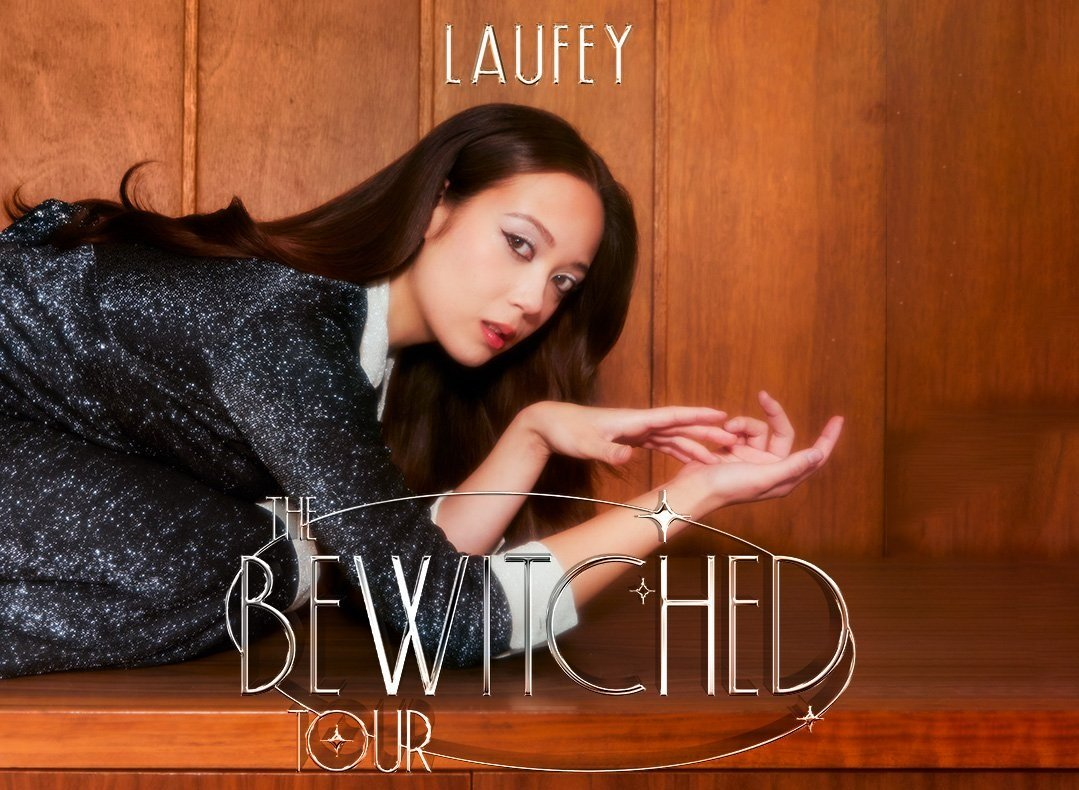
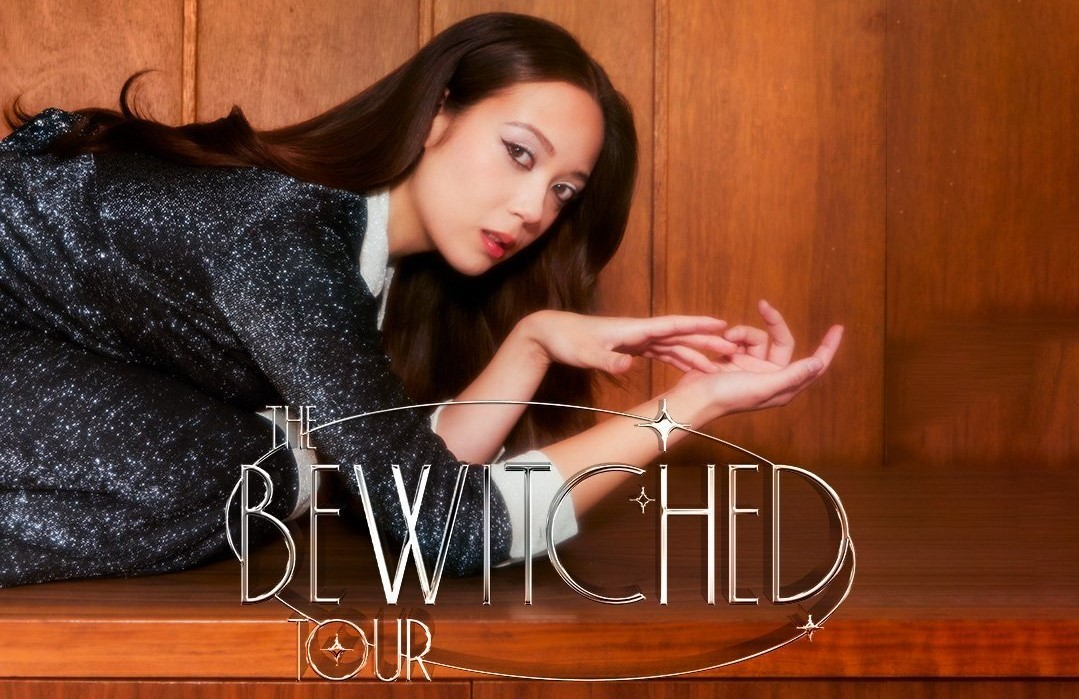
almost completed tour page,have to fix the spacing

diff --git a/html/tour.html b/html/tour.html
@@ -7,7 +7,7 @@
     <script src="../js/main.js"></script>
     <link rel="preconnect" href="https://fonts.googleapis.com">
     <link rel="preconnect" href="https://fonts.gstatic.com" crossorigin>
-    <link href="https://fonts.googleapis.com/css2?family=Kristi&family=Radio+Canada:wght@700&family=Roboto+Mono:wght@300;500&display=swap" rel="stylesheet">
+    <link href="https://fonts.googleapis.com/css2?family=Caveat&family=Kristi&family=Radio+Canada:wght@300;400;500;600;700&family=Roboto+Mono:wght@100;200;300;400;500;600;700&display=swap" rel="stylesheet">
     <title>About | Laufey</title>
 </head>
 <body>
@@ -40,7 +40,151 @@
     </header>
 
     <main>
+        <section id = "tour-picture-container">
+            <img src="../images/tour/laufey_tour_poster.jpg" alt="Tour Poster">
+        </section>
+        <section id = "tour-dates-container">
+            <div class = "tour-items">
+                <div class = "tour-date-details">
+                    <p class = "tour-date">
+                        NOV 15, 2024<br><span>Friday</span>
+                    </p>
+                    <p class = "tour-country">
+                        SINGAPORE, <br>SINGAPORE
+                    </p>
+                    <p class = "tour-location">
+                        SINGAPORE INDOOR STADIUM<br><span>with Dodie</span>
+                    </p>
+                    <a class = "buy-tickets-button" href = "#" target="_blank">
+                        BUY TICKETS
+                    </a>
+                </div>
+                <div class = "tour-date-details">
+                    <p class = "tour-date">
+                        NOV 17, 2024<br><span>Sunday</span>
+                    </p>
+                    <p class = "tour-country">
+                        KUALAR LUMPUR, <br>MALAYSIA
+                    </p>
+                    <p class = "tour-location">
+                        BUKIT JALIL NATIONAL STADIUM<br><span>with Dodie</span>
+                    </p>
+                    <a class = "buy-tickets-button" href = "#" target="_blank">
+                        BUY TICKETS
+                    </a>
+                </div>
+                <div class = "tour-date-details">
+                    <p class = "tour-date">
+                        NOV 20, 2024<br><span>Thursday</span>
+                    </p>
+                    <p class = "tour-country">
+                        BANGKOK, <br>THAILAND
+                    </p>
+                    <p class = "tour-location">
+                        TRUE ICON HALL<br><span>with Dodie</span>
+                    </p>
+                    <a class = "buy-tickets-button" href = "#" target="_blank">
+                        BUY TICKETS
+                    </a>
+                </div>
+                <div class = "tour-date-details">
+                    <p class = "tour-date">
+                        NOV 23, 2024<br><span>Sunday</span>
+                    </p>
+                    <p class = "tour-country">
+                        HANOI, <br>VIETNAM
+                    </p>
+                    <p class = "tour-location">
+                        HANOI OPERA HOUSE<br><span>with VNSO</span>
+                    </p>
+                    <a class = "buy-tickets-button" href = "#" target="_blank">
+                        BUY TICKETS
+                    </a>
+                </div>
+                <div class = "tour-date-details">
+                    <p class = "tour-date">
+                        NOV 15, 2024<br><span>Friday</span>
+                    </p>
+                    <p class = "tour-country">
+                        SINGAPORE, <br>SINGAPORE
+                    </p>
+                    <p class = "tour-location">
+                        SINGAPORE INDOOR STADIUM<br><span>with Dodie</span>
+                    </p>
+                    <a class = "buy-tickets-button" href = "#" target="_blank">
+                        BUY TICKETS
+                    </a>
+                </div>
+                <div class = "tour-date-details">
+                    <p class = "tour-date">
+                        NOV 17, 2024<br><span>Sunday</span>
+                    </p>
+                    <p class = "tour-country">
+                        KUALAR LUMPUR, <br>MALAYSIA
+                    </p>
+                    <p class = "tour-location">
+                        BUKIT JALIL NATIONAL STADIUM<br><span>with Dodie</span>
+                    </p>
+                    <a class = "buy-tickets-button" href = "#" target="_blank">
+                        BUY TICKETS
+                    </a>
+                </div>
+                <div class = "tour-date-details">
+                    <p class = "tour-date">
+                        NOV 20, 2024<br><span>Thursday</span>
+                    </p>
+                    <p class = "tour-country">
+                        BANGKOK, <br>THAILAND
+                    </p>
+                    <p class = "tour-location">
+                        TRUE ICON HALL<br><span>with Dodie</span>
+                    </p>
+                    <a class = "buy-tickets-button" href = "#" target="_blank">
+                        BUY TICKETS
+                    </a>
+                </div>
+                <div class = "tour-date-details">
+                    <p class = "tour-date">
+                        NOV 23, 2024<br><span>Sunday</span>
+                    </p>
+                    <p class = "tour-country">
+                        HANOI, <br>VIETNAM
+                    </p>
+                    <p class = "tour-location">
+                        HANOI OPERA HOUSE<br><span>with VNSO</span>
+                    </p>
+                    <a class = "buy-tickets-button" href = "#" target="_blank">
+                        BUY TICKETS
+                    </a>
+                </div>
+            </div>
+        </section>
         
+        <section id = "tour-merch">
+            <div class = "featured-merch-container">
+                <div class = "merch-items">
+                    <a href="#" target="_blank"><img src="../images/merch/laufeymerch-1.webp" alt="Bewitched Vinyl"></a>
+                    <p class = "merch-details">
+                        <span>Bewitched Vinyl</span><br>
+                        SGD$49.99
+                    </p>
+                </div>
+                <div class = "merch-items">
+                    <a href="#" target="_blank"><img src="../images/merch/laufeymerch-2.webp" alt="Bewitched Cassette"></a>
+                    <p class = "merch-details">
+                        <span>Bewitched Cassett</span><br>
+                        SGD$19.99
+                    </p>
+                </div>
+                <div class = "merch-items">
+                    <a href="#" target="_blank"><img src="../images/merch/laufeymerch-3.webp" alt="Bewitched Sheet Music"></a>
+                    <p class = "merch-details">
+                        <span>Bewitched Sheet Music</span><br>
+                        SGD$9.99
+                    </p>
+                </div>
+            </div>
+        </section>
     </main>
 
     <footer id = "footer-container">

diff --git a/css/style.css b/css/style.css
@@ -359,7 +359,7 @@ main{
     flex-direction: row;
     justify-content: space-between;
     align-items: flex-start;
-    flex: 1 1 25%; /*Make it equal size*/
+    flex: 1; /*Make it equal size*/
 }
 
 .tour-date-details p{
@@ -369,7 +369,6 @@ main{
     letter-spacing: 2px;
     line-height: 25px; 
     padding: 0px 15px 5px 15px;
-    height: auto;
     margin-top: 0;
     margin-bottom: 15px;
     align-content: flex-start;
@@ -618,6 +617,22 @@ label{
 .watch-laufey-now-button{
     width: 75%;
     margin: 30px auto 80px auto;
+}
+
+#tour-merch{
+    margin-bottom: 80px;
+}
+
+/*Tour Page*/
+#tour-picture-container img{
+    width: 100%;
+}
+
+#tour-dates-container{
+    display: flex;
+    width: 80%; 
+    margin: 90px auto;
+    justify-content: center;
 }
 
 /*Mobile view*/

diff --git a/html/about.html b/html/about.html
@@ -7,7 +7,7 @@
     <script src="../js/main.js"></script>
     <link rel="preconnect" href="https://fonts.googleapis.com">
     <link rel="preconnect" href="https://fonts.gstatic.com" crossorigin>
-    <link href="https://fonts.googleapis.com/css2?family=Kristi&family=Radio+Canada:wght@700&family=Roboto+Mono:wght@300;500&display=swap" rel="stylesheet">
+    <link href="https://fonts.googleapis.com/css2?family=Caveat&family=Kristi&family=Radio+Canada:wght@300;400;500;600;700&family=Roboto+Mono:wght@100;200;300;400;500;600;700&display=swap" rel="stylesheet">
     <title>About | Laufey</title>
 </head>
 <body>

diff --git a/html/contact.html b/html/contact.html
@@ -7,7 +7,7 @@
     <script src="../js/main.js"></script>
     <link rel="preconnect" href="https://fonts.googleapis.com">
     <link rel="preconnect" href="https://fonts.gstatic.com" crossorigin>
-    <link href="https://fonts.googleapis.com/css2?family=Kristi&family=Radio+Canada:wght@700&family=Roboto+Mono:wght@300;500&display=swap" rel="stylesheet">
+    <link href="https://fonts.googleapis.com/css2?family=Caveat&family=Kristi&family=Radio+Canada:wght@300;400;500;600;700&family=Roboto+Mono:wght@100;200;300;400;500;600;700&display=swap" rel="stylesheet">
     <title>About | Laufey</title>
 </head>
 <body>

diff --git a/html/merch.html b/html/merch.html
@@ -7,7 +7,7 @@
     <script src="../js/main.js"></script>
     <link rel="preconnect" href="https://fonts.googleapis.com">
     <link rel="preconnect" href="https://fonts.gstatic.com" crossorigin>
-    <link href="https://fonts.googleapis.com/css2?family=Kristi&family=Radio+Canada:wght@700&family=Roboto+Mono:wght@300;500&display=swap" rel="stylesheet">
+    <link href="https://fonts.googleapis.com/css2?family=Caveat&family=Kristi&family=Radio+Canada:wght@300;400;500;600;700&family=Roboto+Mono:wght@100;200;300;400;500;600;700&display=swap" rel="stylesheet">
     <title>About | Laufey</title>
 </head>
 <body>

diff --git a/html/music.html b/html/music.html
@@ -7,7 +7,7 @@
     <script src="../js/main.js"></script>
     <link rel="preconnect" href="https://fonts.googleapis.com">
     <link rel="preconnect" href="https://fonts.gstatic.com" crossorigin>
-    <link href="https://fonts.googleapis.com/css2?family=Kristi&family=Radio+Canada:wght@700&family=Roboto+Mono:wght@300;500&display=swap" rel="stylesheet">
+    <link href="https://fonts.googleapis.com/css2?family=Caveat&family=Kristi&family=Radio+Canada:wght@300;400;500;600;700&family=Roboto+Mono:wght@100;200;300;400;500;600;700&display=swap" rel="stylesheet">
     <title>About | Laufey</title>
 </head>
 <body>

diff --git a/index.html b/index.html
@@ -144,7 +144,6 @@
                         SEE MORE
                     </a>
                 </div>
-                
             </div>
         </section>
 
